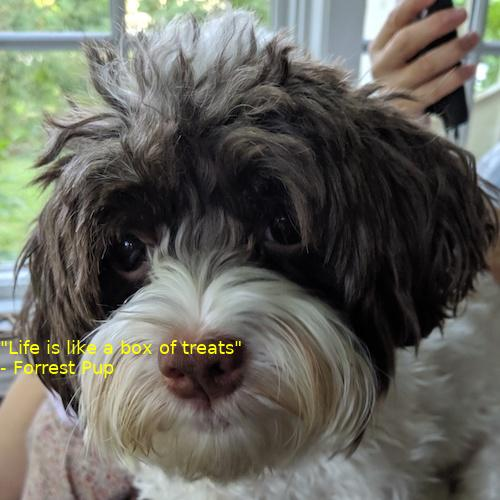
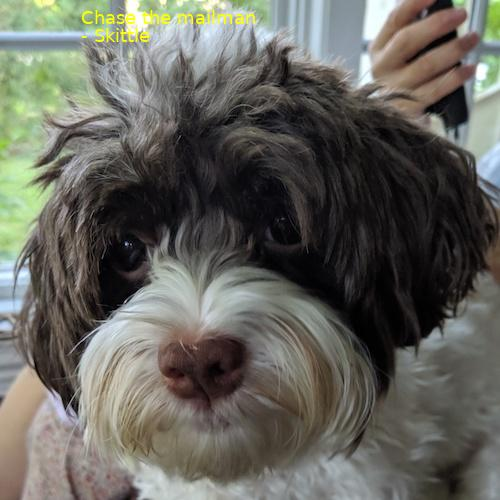
fixed bugs

Changed region(s): [[0.0, 0.66, 0.48, 0.75], [0.15, 0.0, 0.51, 0.09]]

diff --git a/src/templates/meme_error.html b/src/templates/meme_error.html
@@ -1,0 +1,12 @@
+<!DOCTYPE html>
+<html lang="en">
+<head>
+    <meta charset="UTF-8">
+    <title>Meme Error</title>
+</head>
+<body>
+    <h1>{{error_msg}}</h1>
+    <a class="btn btn-outline-primary" href="{{url_for('meme_form')}}">Creator</a>
+
+</body>
+</html>

diff --git a/src/meme_engine.py b/src/meme_engine.py
@@ -7,12 +7,14 @@ Transform image by resizing to a maximum width of.
 Add a caption to an image (string input) with a body.
 and author to a random location on the image.
 """
+from tkinter import font
 from PIL import Image, ImageDraw, ImageFont
 from random import randint
 import os
 import matplotlib.font_manager as fm
 from math import ceil
-
+from pathlib import Path
+import textwrap
 
 class MemeEngine:
     """A MemeEngine use the make_meme method to create a meme from an image."""
@@ -38,21 +40,39 @@ class MemeEngine:
         height = ceil(old_height/old_width * width)
         new_img = img.resize((width, height))
 
-        # add quote
-        offset = 20
-        text_pos = (randint(0, width/2), randint(0, height-60))
-        author_pos = (text_pos[0], text_pos[1] + offset)
+        # wrap text
+        font_size = 18
+        t = ceil(width/(font_size-3)) 
+        text_list = textwrap.TextWrapper(t).wrap(text)
+        author_list = textwrap.TextWrapper(t).wrap(author) 
+        n = len(text_list)
+        m = len(author_list)
+        x_offset = max(len(text_list[0]), len(author_list[0])) * (font_size - 6)
+        y_offset = (n + m) * font_size
+        next_line_offset = font_size
+
+        # get position
+        text_pos = (randint(0, width-x_offset), randint(0, height-y_offset))
+        author_pos = (text_pos[0], text_pos[1] + next_line_offset * n)
 
         draw = ImageDraw.Draw(new_img)
-        # myfont = ImageFont.truetype('Tests/fonts/DejaVuSans.ttf')
         myfont = ImageFont.truetype(fm.findfont(
-                                    fm.FontProperties('DejaVuSans.ttf')), 18)
-        draw.text(text_pos, text, fill=(255, 255, 0), font=myfont)
-        draw.text(author_pos, "- "+author, fill=(255, 255, 0), font=myfont)
+                                    fm.FontProperties('DejaVuSans.ttf')), font_size)
+        # draw body
+        for i in range(n):
+            pos = (text_pos[0], text_pos[1] + next_line_offset * i)
+            draw.text(pos, text_list[i], fill=(255, 255, 0), font=myfont)
+
+        # draw author
+        for i in range(m):
+            pos = (author_pos[0], author_pos[1] + next_line_offset * i)
+            draw.text(pos, "- "+author_list[i], fill=(255, 255, 0), font=myfont)
 
         if not os.path.exists(self.output_dir):
             os.mkdir(self.output_dir)
-        filename = self.output_dir + "/" + img_path.split("/")[-1]
+        filename = self.output_dir + "/" + Path(img_path).name
         new_img.save(filename)
 
         return filename
+
+    

diff --git a/src/app.py b/src/app.py
@@ -64,16 +64,21 @@ def meme_post():
     url = request.form['image_url']
     body = request.form['body']
     author = request.form['author']
+    
     img = "tempimg.png"
-    try:
-        r = requests.get(url)
-    except Exception:
-        Exception("Unable to get image from the specified URL")
-    with open(img, 'wb') as f:
-        f.write(r.content)
 
-    path = meme.make_meme(img, body, author)
-    os.remove(img)
+    try:
+        r = requests.get(url) 
+        with open(img, 'wb') as f:
+            f.write(r.content)
+
+        path = meme.make_meme(img, body, author)
+    except:
+        Exception("Cannot identify image file")
+        return render_template('meme_error.html', error_msg="Oops! Looks like you've the wrong URL, try specifying an image URL")
+    finally:
+        if os.path.exists(img):
+            os.remove(img)
 
     return render_template('meme.html', path=path)
 

diff --git a/src/meme.py b/src/meme.py
@@ -59,4 +59,7 @@ if __name__ == "__main__":
                         help='The quote to be added to the meme')
     parser.add_argument('--author', type=str, help='The author of the quote')
     args = parser.parse_args()
-    print(generate_meme(args.path, args.body, args.author))
+    try:
+        print(generate_meme(args.path, args.body, args.author))
+    except:
+        print("Oops! Please check the path of the image you have specified!")
